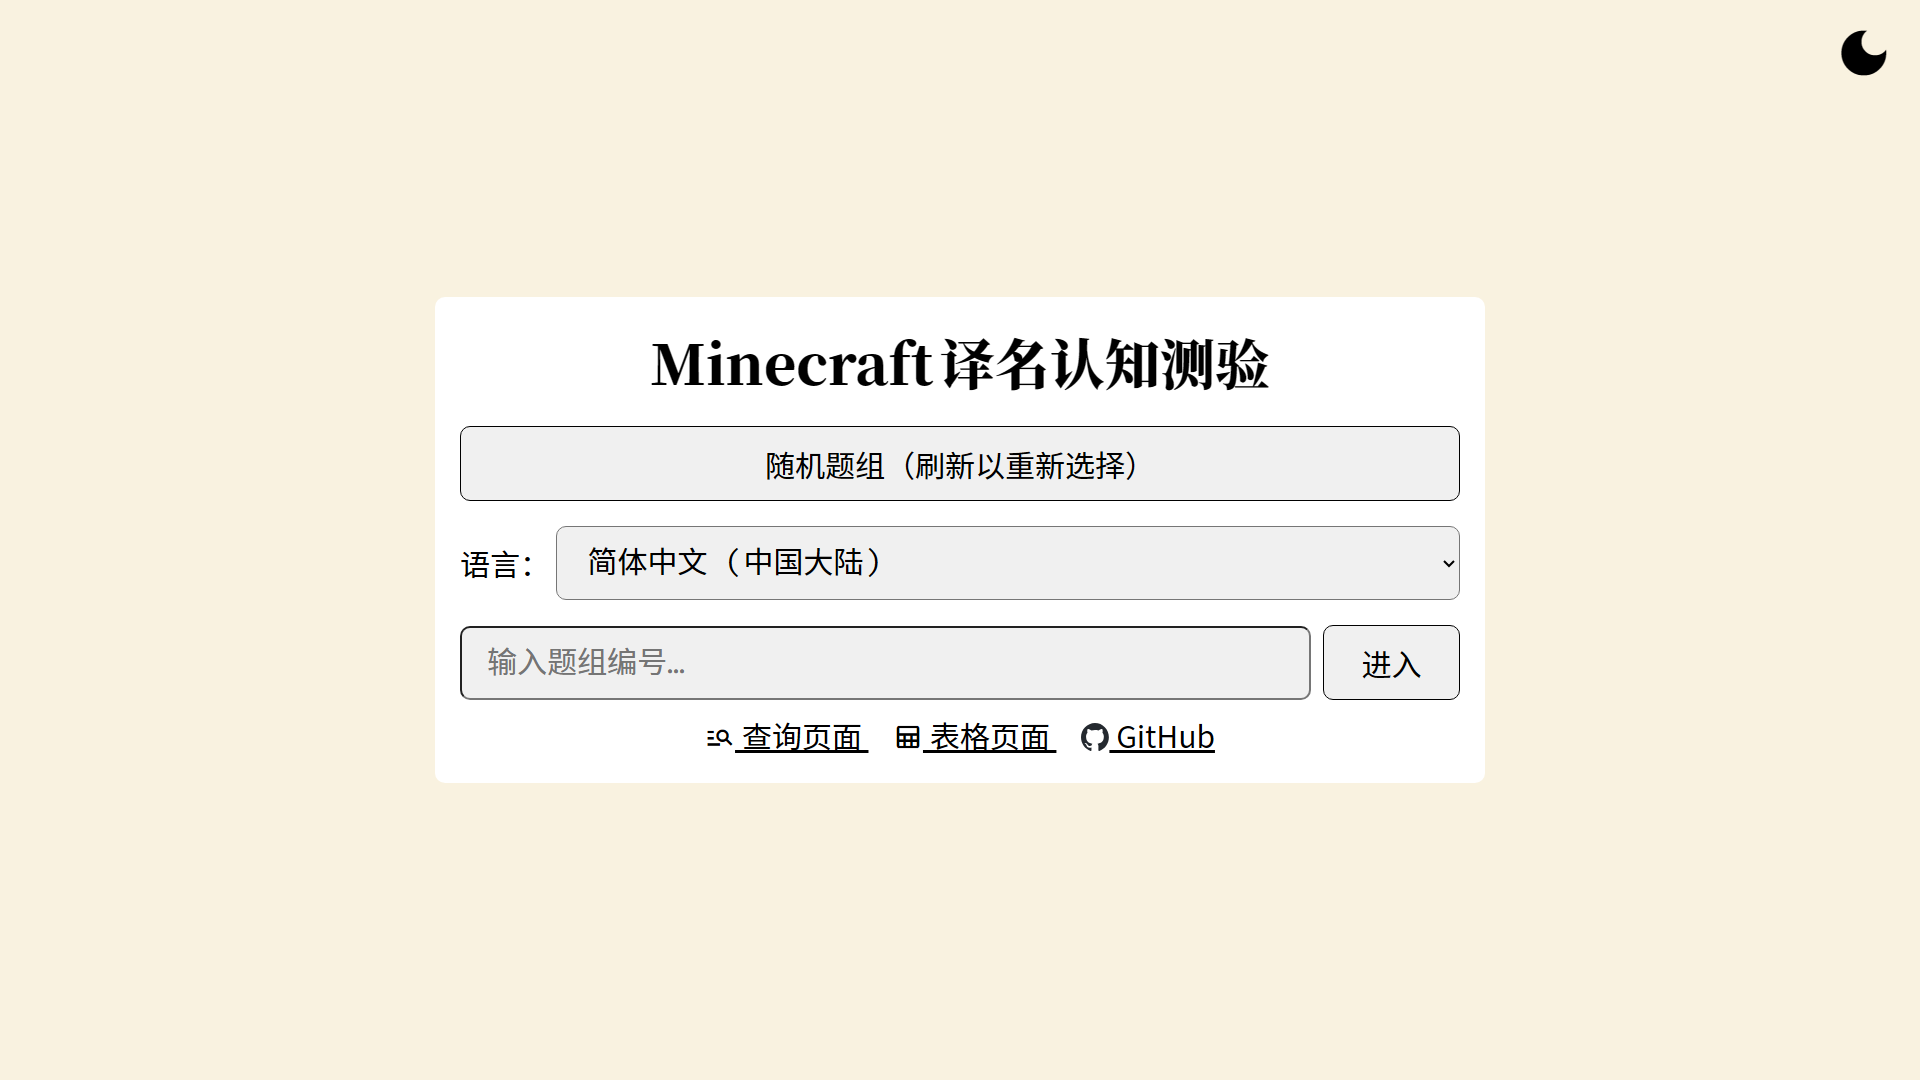
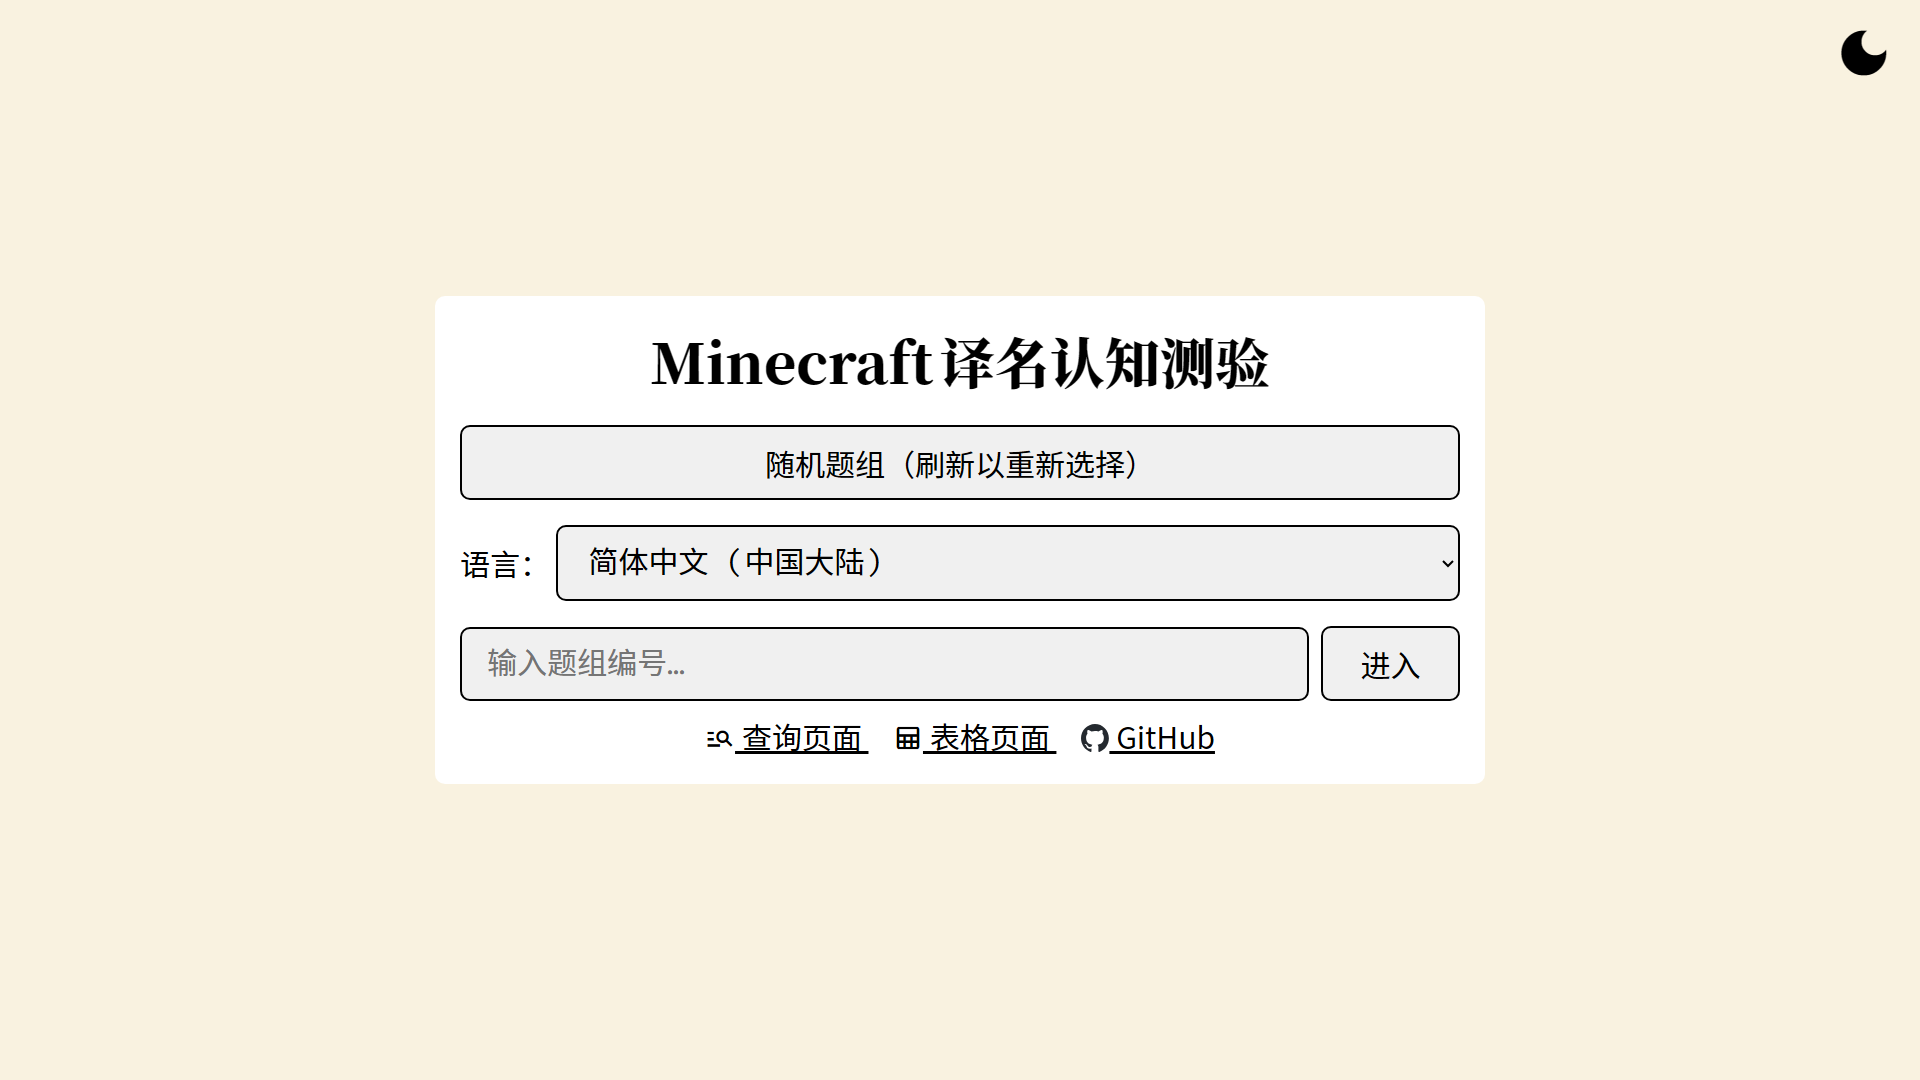
Style

diff --git a/static/css/quiz_sub.css b/static/css/quiz_sub.css
@@ -124,6 +124,13 @@ button {
     background-color: transparent !important;
 }
 
+select:hover,
+input:hover,
+button:hover {
+    border-width: 3px !important;
+    border-color: inherit;
+}
+
 .material-symbols-outlined.b {
     display: inline-block;
     line-height: inherit;
@@ -193,7 +200,7 @@ button {
     margin: 10px auto 0;
     padding: 8px;
     cursor: pointer;
-    border: solid 1px;
+    border: solid 2px;
     border-radius: 8px;
 }
 

diff --git a/static/css/quiz_portal.css b/static/css/quiz_portal.css
@@ -74,7 +74,6 @@ input[type="text"] {
     flex: 1;
     padding: 0.5em 20px;
     font-size: x-large;
-    border-radius: 8px;
 }
 
 button {
@@ -82,8 +81,19 @@ button {
     background-color: #f0f0f0;
     cursor: pointer;
     font-size: x-large;
-    border: solid 1px;
+}
+
+select,
+input,
+button {
+    border: solid 2px;
     border-radius: 8px;
+}
+
+select:hover,
+input:hover,
+button:hover {
+    border-width: 3px;
 }
 
 .btn-1 {
